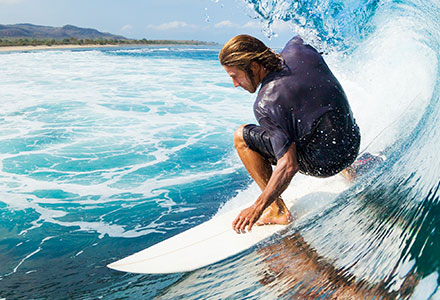
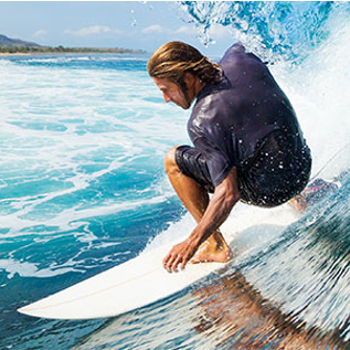
cambios
cambios de estilado en las ofertas

diff --git a/css/style.css b/css/style.css
@@ -40,20 +40,95 @@ body{
 	margin:2% auto 0% 10%;
 }
 #principal h2{
+	font-family:Rektec;
 	text-align: center;
 	color: #0D36AA;
 	margin-left: -20%; 
 	padding: auto;
 }
 
-#principal img {
-
+#principal a {
+	margin-bottom: 4px;
+	position: static;
+    display: inline-block;
 	border-radius: 8px;
-	border: 2px solid #164C96;
+	border: 4px solid #164C96;
 	width:350px;
 	height:350px;
+	text-decoration: none;
+    background-repeat: no-repeat;
+    padding: 0;
+    
+
+}
+#principal p {
+	margin: 0;
+	padding: 0;
+	position: static;
+	display: flex;
+	text-align: center;
+    text-decoration: none;
+	font-size: 25px;
+	font-weight: bold;
+	color:#fff;
+	text-decoration: none;
+	justify-content: center;
+	align-items: center;
+	width:350px;
+	height:350px;
+	background-color: rgba(0, 0, 0, 0.6); 
+	opacity: 0;
+
 }
 
+#principal a:hover p{
+	opacity: 1;
+}
+
+#a1 {
+	background-image: url("../images/Ofertas/cafetera.jpg");
+	background-position:0 0;
+}
+
+#a2 {
+	background-image: url("../images/Ofertas/cine.jpg");
+	background-position:0 0;
+}
+
+#a3 {
+	background-image: url("../images/Ofertas/Coiffeur.jpg");
+	background-position:0 0;
+}
+
+#a4 {
+	background-image: url("../images/Ofertas/crucero.jpg");
+	background-position:0 0;
+}
+
+#a5 {
+	background-image: url("../images/Ofertas/deporte.jpg");
+	background-position:0 0;
+}
+
+#a6 {
+	background-image: url("../images/Ofertas/Jam.jpg");
+	background-position:0 0;
+}
+
+#a7 {
+	background-image: url("../images/Ofertas/Lavarropas.jpg");
+	background-position:0 0;
+}
+
+#a8 {
+	background-image: url("../images/Ofertas/restaurant.jpg");
+	background-position:0 0;
+}
+
+#a9 {
+	background-image: url("../images/Ofertas/Secador.jpg");
+	background-position:0 0;
+}
 
 
 #contenedor{
@@ -61,7 +136,7 @@ body{
 	width:expression(document.body.clientWidth> 901? "900px":"auto");
 	margin:0 auto;
 	background-color: #EDD7C2;
-	padding-top: 4%;
+	padding-top: 80px;
 }
 
 #cabecera #logo{
@@ -101,7 +176,7 @@ body{
 }
 
 nav {
-	margin-top: 2%;
+	margin-top: 50px;
 	margin-left: 3%;
 }
 
@@ -118,6 +193,7 @@ nav {
 
 
 	#menu a {
+		white-space: nowrap;
 	background-color:#FE2E2E;
     color: white;
     padding: 10px 20px;
@@ -252,6 +328,16 @@ h1{
 
 
 
+#contenedor {
+		padding-top: 30px;
+}	 
+
+	 #buscador input {
+	 	width: 95%;
+	 	margin: 0;
+	 }
+
+
 #cabecera #buscador{
 	float:left;
 	margin-left: 3%;
@@ -295,11 +381,15 @@ h1{
 	width: 82%;
 
 	}
-	#principal img {
+	#principal a {
+	width:200px;
+	height:200px;
+	background-size: 200px 200px;
+}
+#principal p {
 	width:200px;
 	height:200px;
 }
-
 
 
 #pie{width: 82%;
@@ -326,10 +416,18 @@ h1{
 	width: 75%;
 
 	}
-	#principal img {
+	#principal a {
+	width:150px;
+	height:150px;
+	background-size: 150px 150px;
+}
+
+
+	#principal p{
 	width:150px;
 	height:150px;
 }
+
 
 #menu a {
     padding: 8px 10px;
@@ -349,10 +447,7 @@ h1{
 	float: right;
 	 }
 
-	 #buscador input {
-	 	width: 95%;
-	 	margin: 0;
-	 }
+
 
 }
 
@@ -386,7 +481,6 @@ nav {
 	margin:0.2% 0.2% 0.2% 0.2%;
 	width:100px;
 	height: 34px;
-	background-image: none;
 	background-color: black;
 	text-align: center;
 	border-radius: 8px;
@@ -398,7 +492,7 @@ nav {
 #logo p{
 	color:white;
 	font-size: 25px;
-	margin-top: 1%;
+	margin-top: 4%;
 	text-align: center;
 	font-family: Qbicle1BRKMK;
 }
@@ -413,10 +507,17 @@ nav {
 	font-size: 18px;	
 }
 
-	#principal img {
+	#principal a {
+	width:120px;
+	height:120px;
+	background-size: 120px 120px;
+}
+
+	#principal p{
 	width:120px;
 	height:120px;
 }
+
 
 #pie{width: 100%;
 	margin-left:0; 
